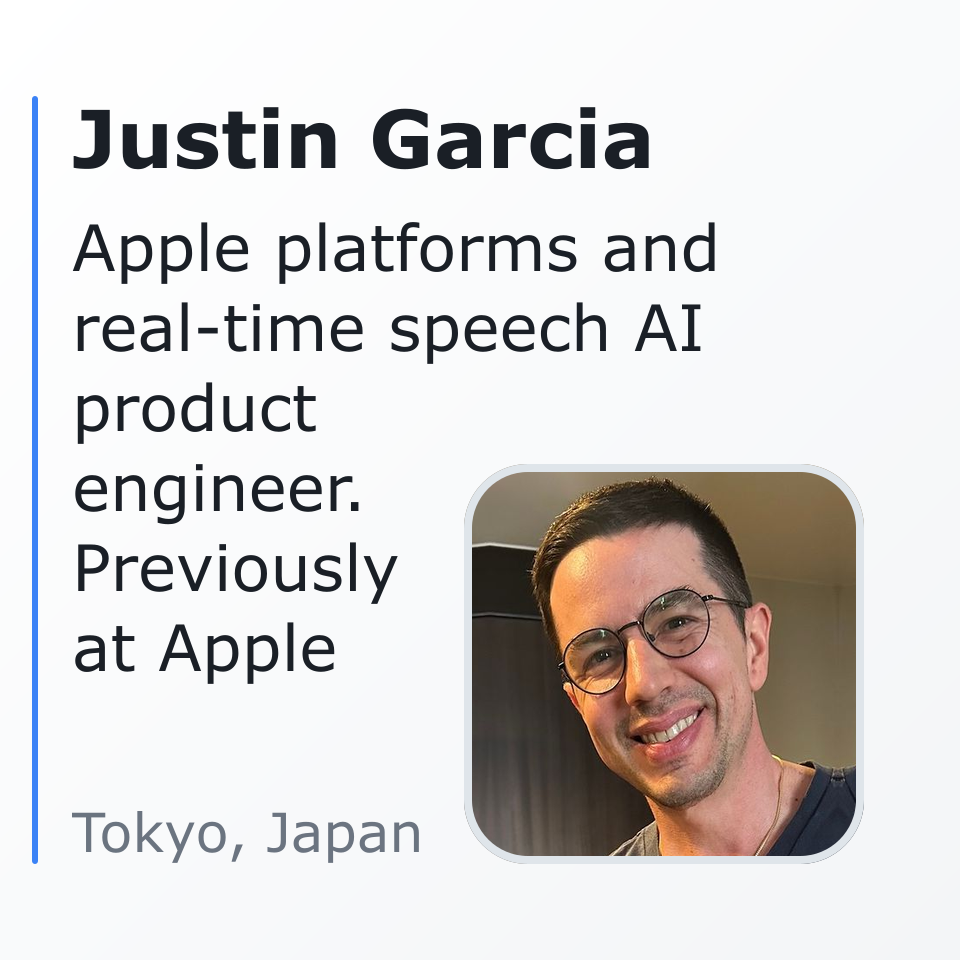
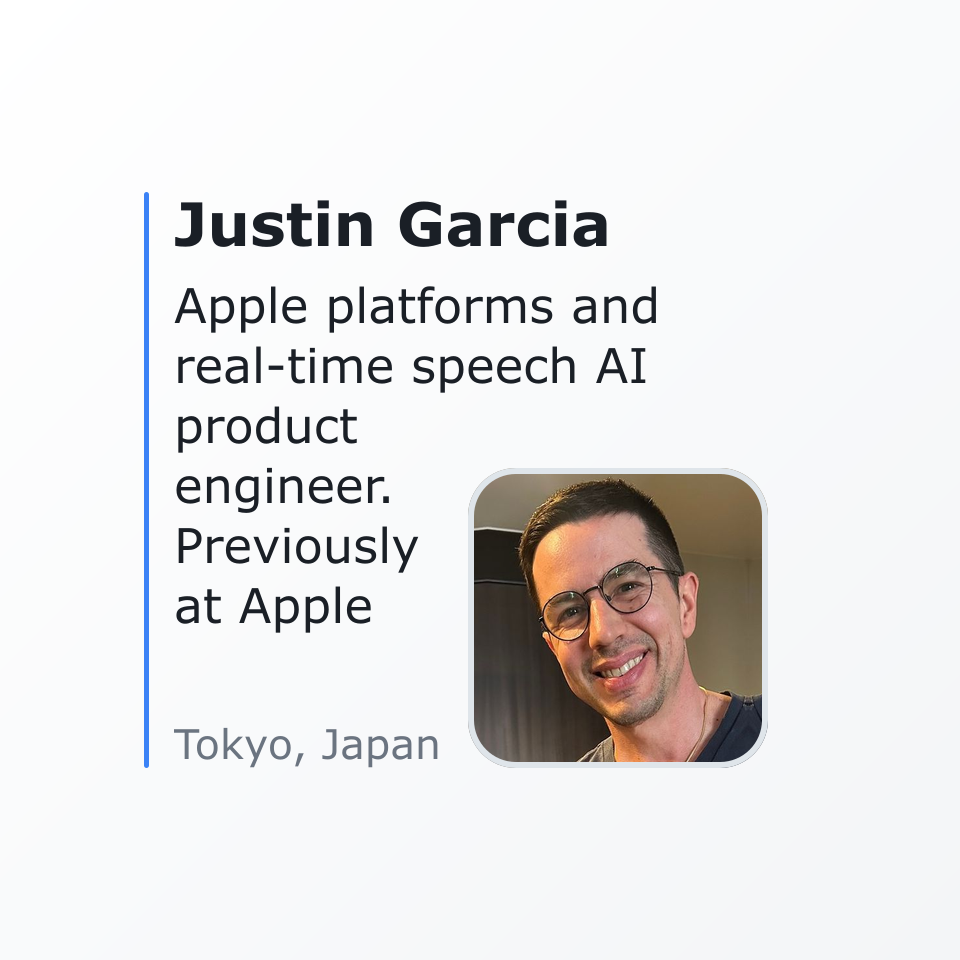
Resume social card: draw content at 75% scale, centered

diff --git a/resume.html b/resume.html
@@ -39,8 +39,8 @@
   <meta property="og:description" content="Tokyo-based software engineer building iOS and real-time speech AI products at Kotoba, previously at Apple.">
   <meta property="og:type" content="profile">
   <meta property="og:url" content="https://onemorething.tokyo/resume.html">
-  <meta property="og:image" content="https://onemorething.tokyo/assets/resume-social.png?v=12">
-  <meta property="og:image:secure_url" content="https://onemorething.tokyo/assets/resume-social.png?v=12">
+  <meta property="og:image" content="https://onemorething.tokyo/assets/resume-social.png?v=13">
+  <meta property="og:image:secure_url" content="https://onemorething.tokyo/assets/resume-social.png?v=13">
   <meta property="og:image:type" content="image/png">
   <meta property="og:image:width" content="960">
   <meta property="og:image:height" content="960">
@@ -48,7 +48,7 @@
   <meta name="twitter:card" content="summary_large_image">
   <meta name="twitter:title" content="Justin Garcia, product engineer at Kotoba">
   <meta name="twitter:description" content="Tokyo-based software engineer building iOS and real-time speech AI products at Kotoba, previously at Apple.">
-  <meta name="twitter:image" content="https://onemorething.tokyo/assets/resume-social.png?v=12">
+  <meta name="twitter:image" content="https://onemorething.tokyo/assets/resume-social.png?v=13">
   <meta name="twitter:image:alt" content="Justin Garcia, product engineer at Kotoba, in Tokyo">
   <script type="application/ld+json">
   {
